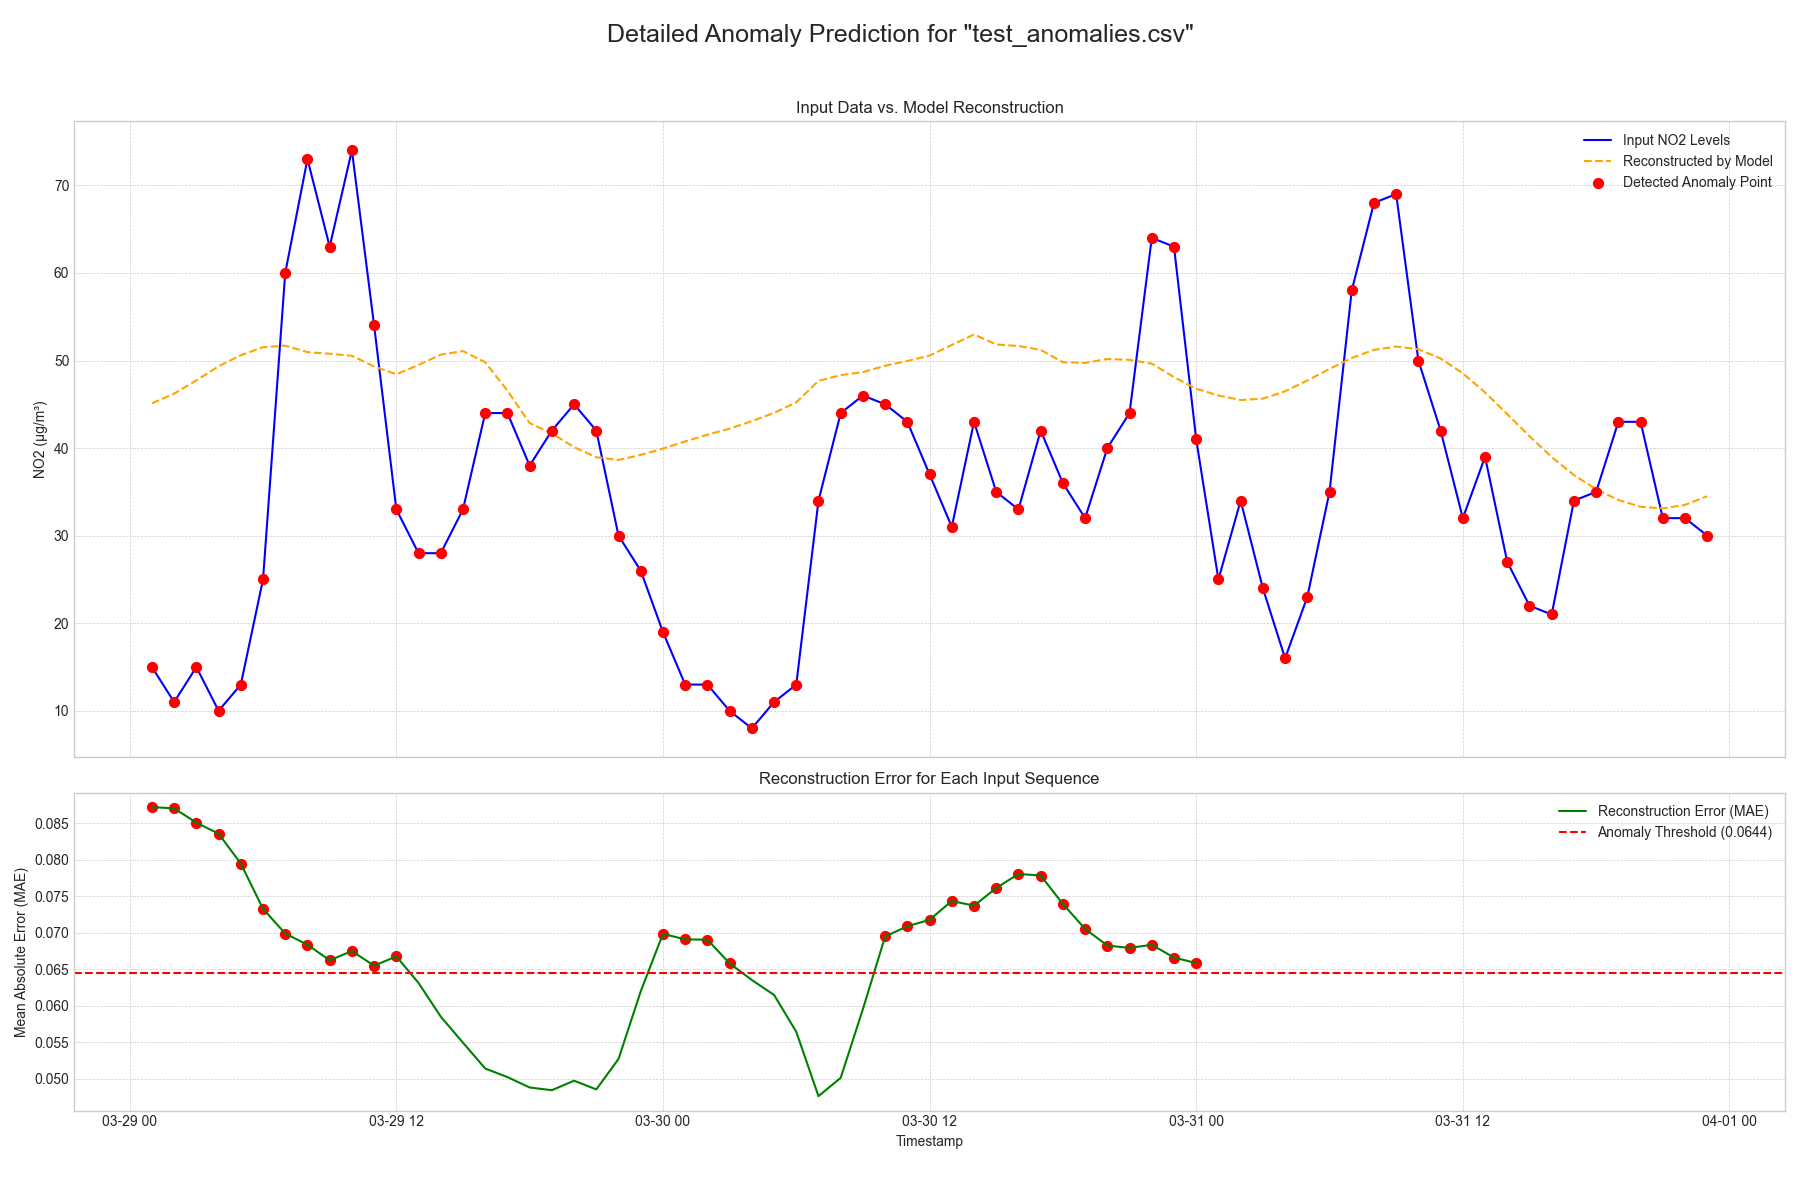
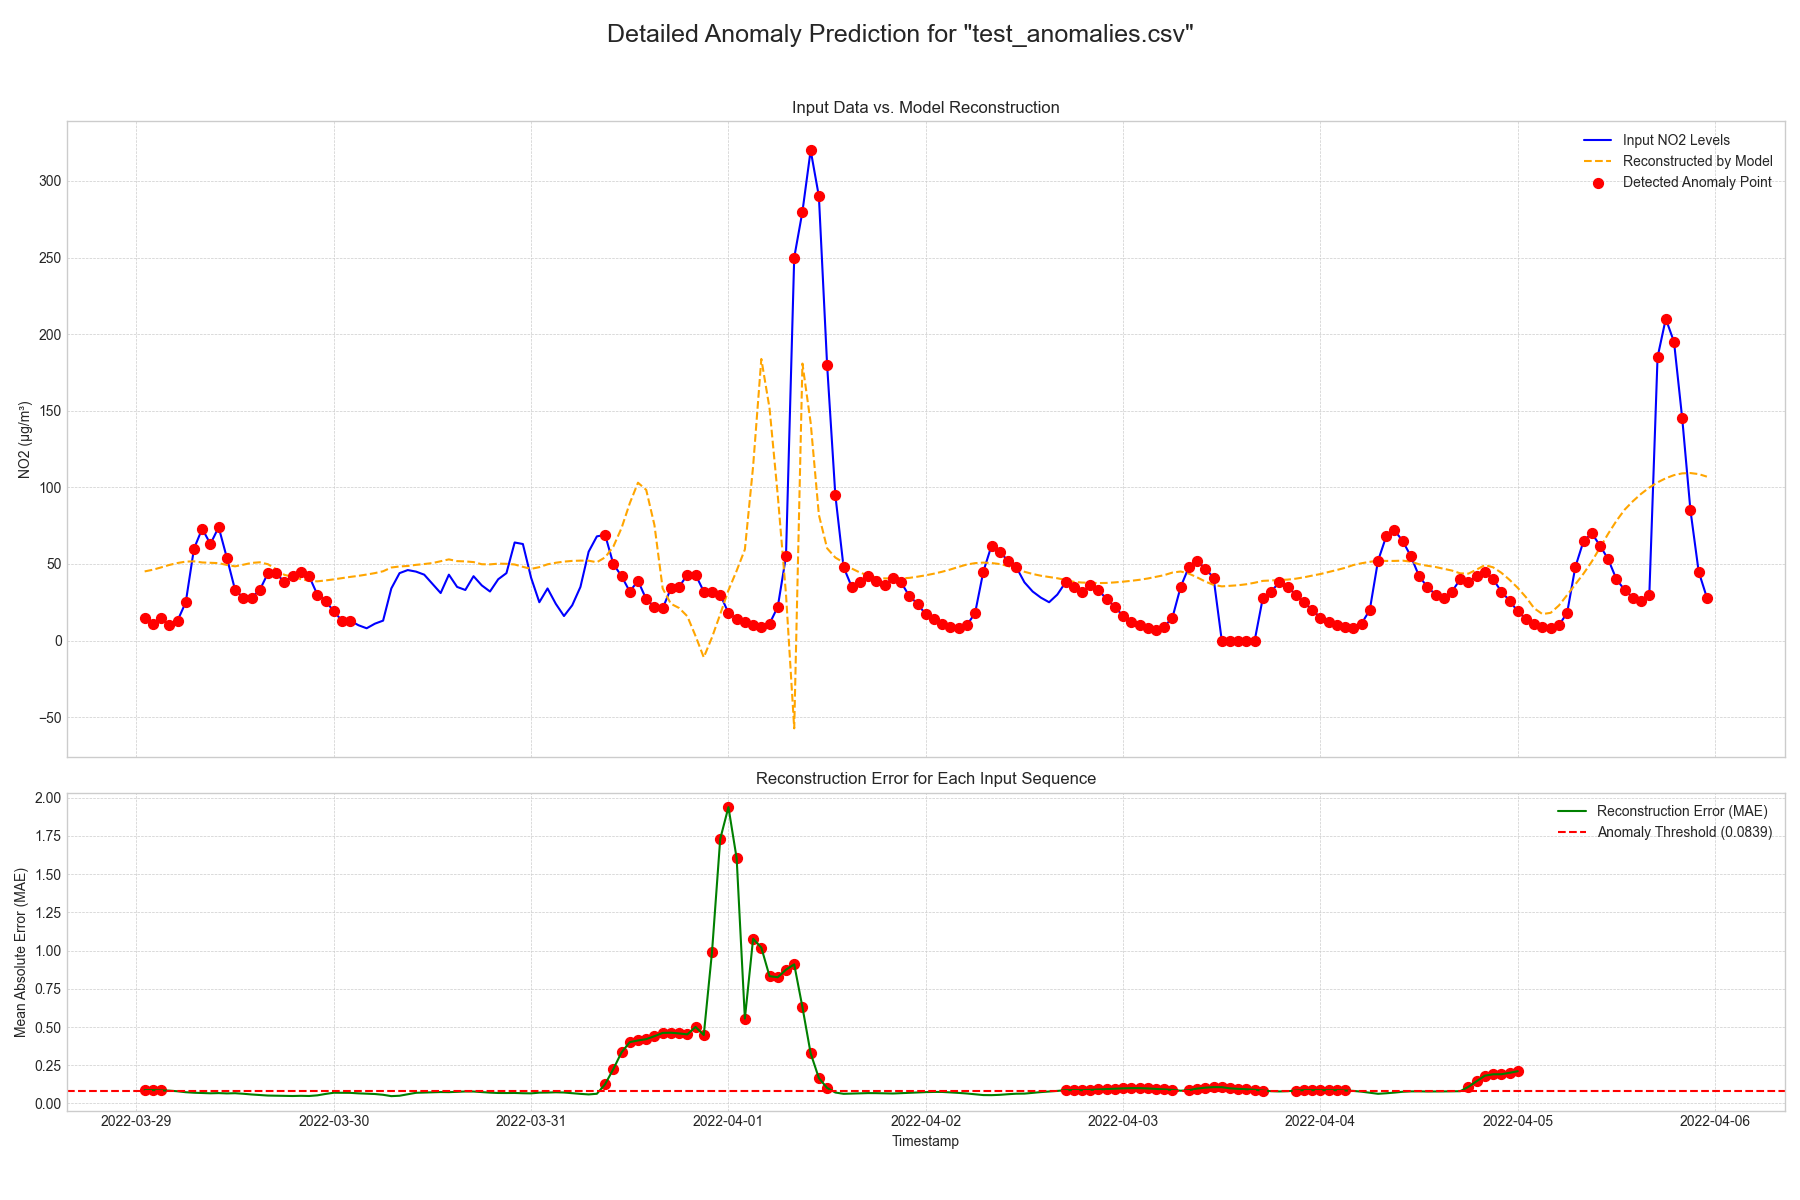
test: Add new test anomaly data, update detection threshold, and generate prediction visualization.

diff --git a/config.py b/config.py
@@ -31,7 +31,7 @@ LSTM_UNITS_DECODER = [64, 128]  # Units in Decoder layers
 DROPOUT_RATE = 0.2             # Dropout rate for regularization
 
 # Anomaly Detection Threshold
-ANOMALY_THRESHOLD_PERCENTILE = 80  # Use 95th percentile of validation errors as threshold
+ANOMALY_THRESHOLD_PERCENTILE = 95  # Use 95th percentile of validation errors as threshold
 NO2_SPIKE_MULTIPLIER = 2.0  # Detect spikes > 3x normal levels
 
 # NO2 Temporal Pattern Configuration
